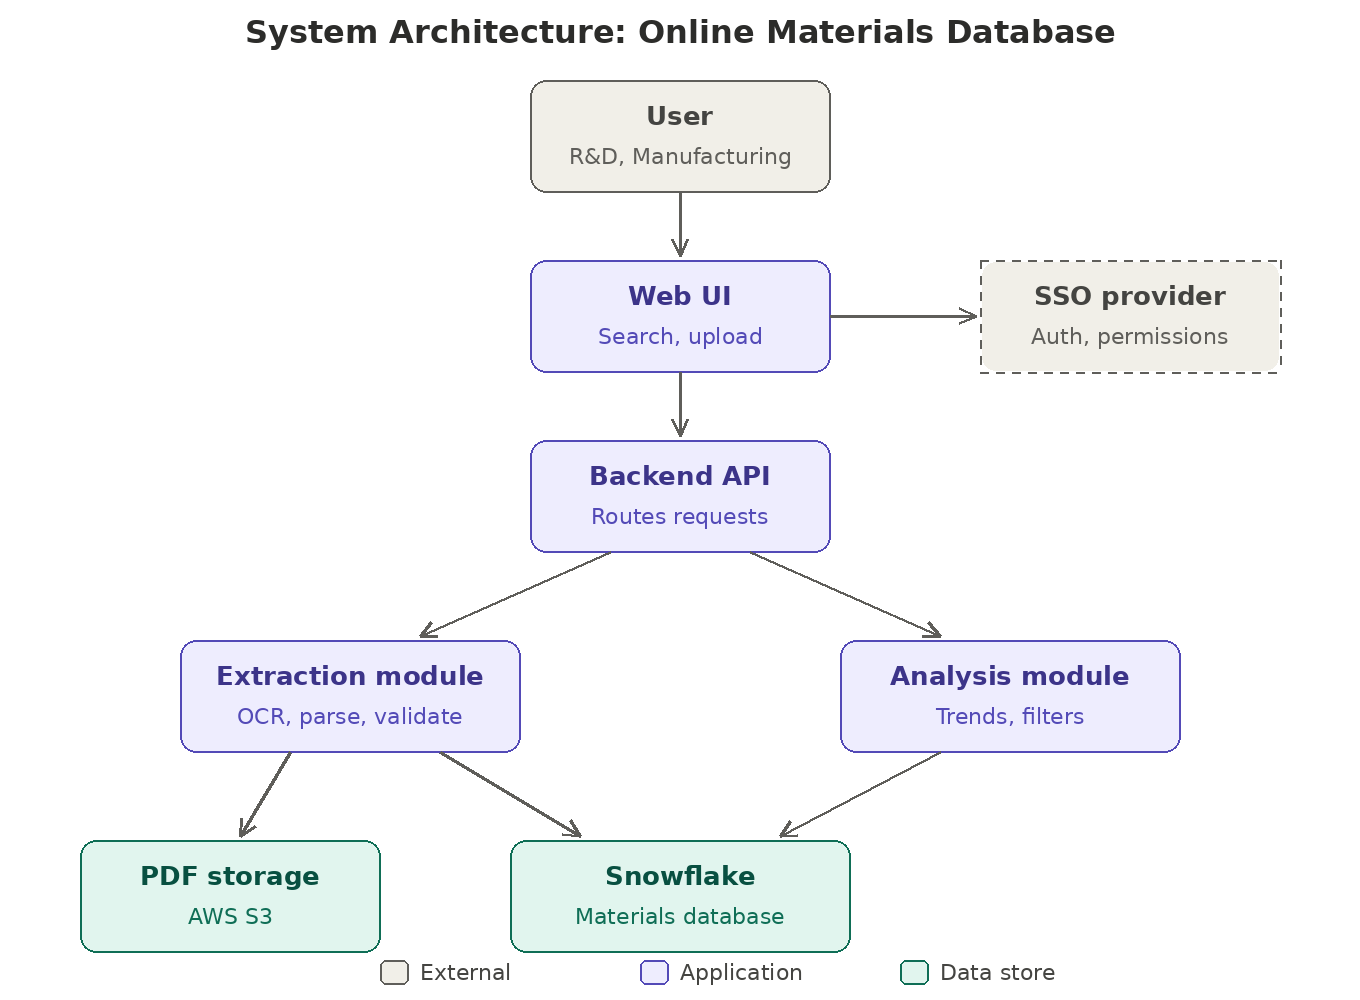
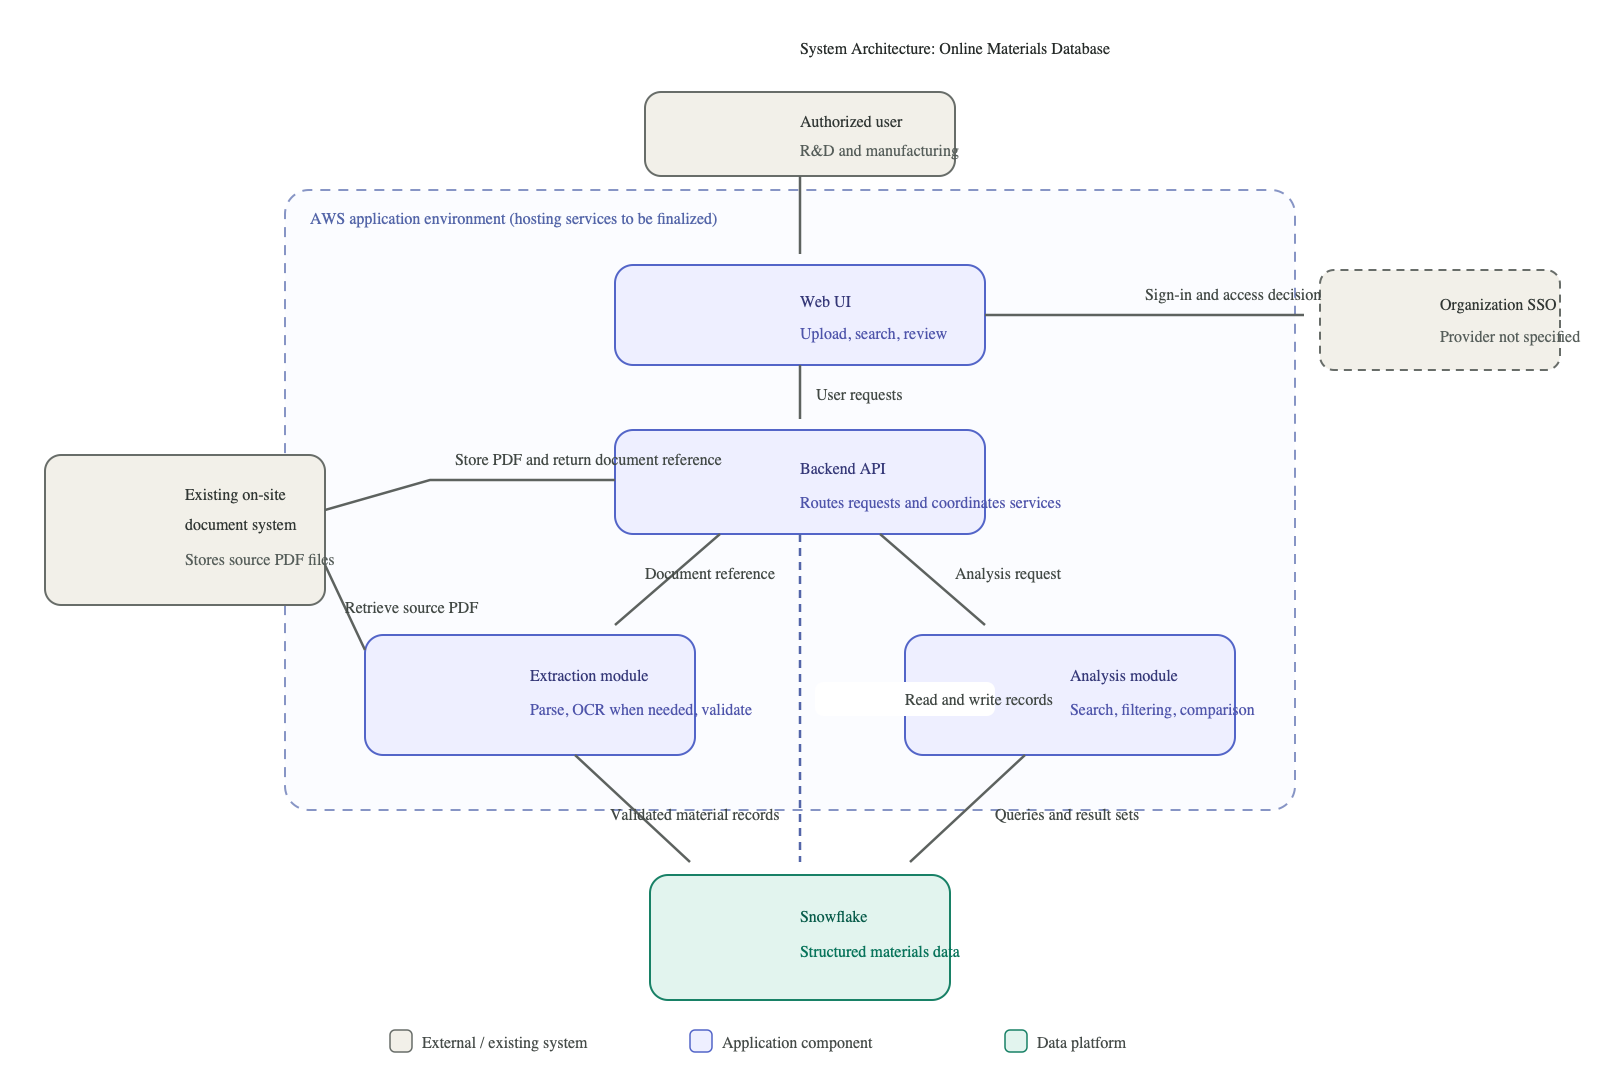
Document on-site PDF architecture
Assisted-by: GitHub Copilot

diff --git a/docs/design/system-architecture-diagram.md b/docs/design/system-architecture-diagram.md
@@ -1,0 +1,46 @@
+> Epic: #42 · Story: #48 · Task: #39
+
+# System Architecture Diagram
+
+This architecture shows the planned application components and their communication. The application is assumed to run in AWS, Snowflake is the materials data platform, and original PDFs remain in the organization's existing on-site document system. The SSO provider is shown as an external dependency; its specific product is not selected here.
+
+```mermaid
+flowchart TB
+    user["Authorized user<br/>R&amp;D and manufacturing"]
+
+    subgraph aws["AWS application environment<br/>hosting services to be finalized"]
+        ui["Web UI<br/>Upload, search, review"]
+        api["Backend API<br/>Routes requests and coordinates services"]
+        extraction["Extraction module<br/>Parse, OCR when needed, validate"]
+        analysis["Analysis module<br/>Search, filtering, comparison"]
+    end
+
+    sso["Organization SSO<br/>Provider not specified"]
+    onsite["Existing on-site document system<br/>Stores original PDF files"]
+    snowflake[("Snowflake<br/>Structured materials data")]
+
+    user -->|Uses application| ui
+    ui -->|Sign-in and access decision| sso
+    ui -->|User requests| api
+    api -->|Stores PDF and receives document reference| onsite
+    onsite -->|Retrieves source PDF| extraction
+    api -->|Document reference| extraction
+    api -->|Analysis request| analysis
+    extraction -->|Validated material records| snowflake
+    analysis <-->|Queries and result sets| snowflake
+    api <-->|Reads and writes records| snowflake
+```
+
+## Component Responsibilities
+
+| Component | Responsibility |
+|---|---|
+| Web UI | Lets authorized users upload documents, review extraction results, search, filter, and compare material records. |
+| Backend API | Routes UI requests and coordinates authentication, document references, extraction, and data access. |
+| Extraction module | Reads source PDFs from the on-site document system, parses digital PDFs or applies OCR when needed, normalizes fields, and validates results. |
+| Analysis module | Queries material data to provide search, filtering, trends, and comparisons. |
+| Snowflake | Stores structured material records and supports application queries and analysis. |
+| Existing on-site document system | Stores original PDFs and serves them to the application by document reference. |
+| Organization SSO | Provides authentication and access decisions; the specific identity provider remains unspecified. |
+
+*Figure 3 — High-level system architecture. Original PDF files stay in the existing on-site document system; extracted, validated material records are stored in Snowflake.*

diff --git a/proposal/proposal.md b/proposal/proposal.md
@@ -209,7 +209,7 @@ Backend Framework|TBD|- Handles application logic <br>- Communication between co
 
 *Figure 2. ER Diagram.*
 
-![System architecture showing the user interface, backend API, extraction and analysis modules, SSO provider, AWS S3 PDF storage, and Snowflake materials database](../docs/design/system-architecture-diagram.png)
+![System architecture showing the user interface, backend API, extraction and analysis modules, organization SSO, the existing on-site PDF document system, and Snowflake materials database](../docs/design/system-architecture-diagram.png)
 
 *Figure 3. System Architecture Diagram.*
 
@@ -222,7 +222,7 @@ Backend Framework|TBD|- Handles application logic <br>- Communication between co
 |----------|------|--------|--------|
 |[Use Case Diagram]()|Design|Maps interactions between external users or systems with the software application's core functions within the system| [#36](https://github.com/CPSC490-Team-Proj/CPSC490-G07-MightyMorphin/issues/36) |
 |[ER Diagram]()|Design|Maps out relationships between entities within the database system|[#38](https://github.com/CPSC490-Team-Proj/CPSC490-G07-MightyMorphin/issues/38)|
-|[System Architecture](../docs/design/system-architecture-diagram.png)|Design|Maps out relationships between core components within the system|[#39](https://github.com/CPSC490-Team-Proj/CPSC490-G07-MightyMorphin/issues/39)|
+|[System Architecture](../docs/design/system-architecture-diagram.md)|Design|Maps out relationships between core components within the system; exported image: [PNG](../docs/design/system-architecture-diagram.png)|[#39](https://github.com/CPSC490-Team-Proj/CPSC490-G07-MightyMorphin/issues/39)|
 |[Data Flow Diagram]()|Design|Maps how information moves, transforms, and stored within the system|[#40](https://github.com/CPSC490-Team-Proj/CPSC490-G07-MightyMorphin/issues/40)|
 |[Goal 1 Specification Document]()|Specification|Specification document for Goal 1: Automated Material Data Extraction and Verification|[#46](https://github.com/CPSC490-Team-Proj/CPSC490-G07-MightyMorphin/issues/46)|
 |[Goal 2 Specification Document]()|Specification|Specification document for Goal 2: Centralized Material Data Storage and Management|[#58](https://github.com/CPSC490-Team-Proj/CPSC490-G07-MightyMorphin/issues/58)|
